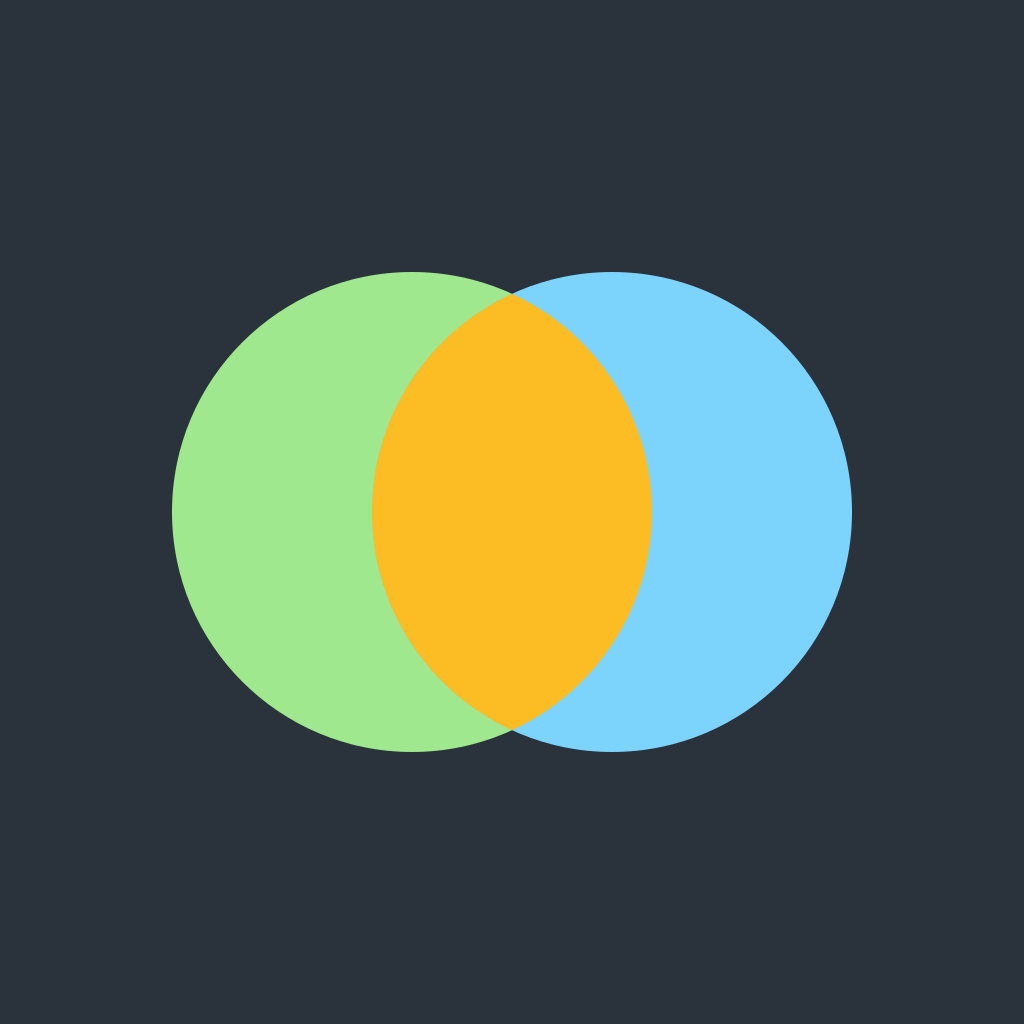
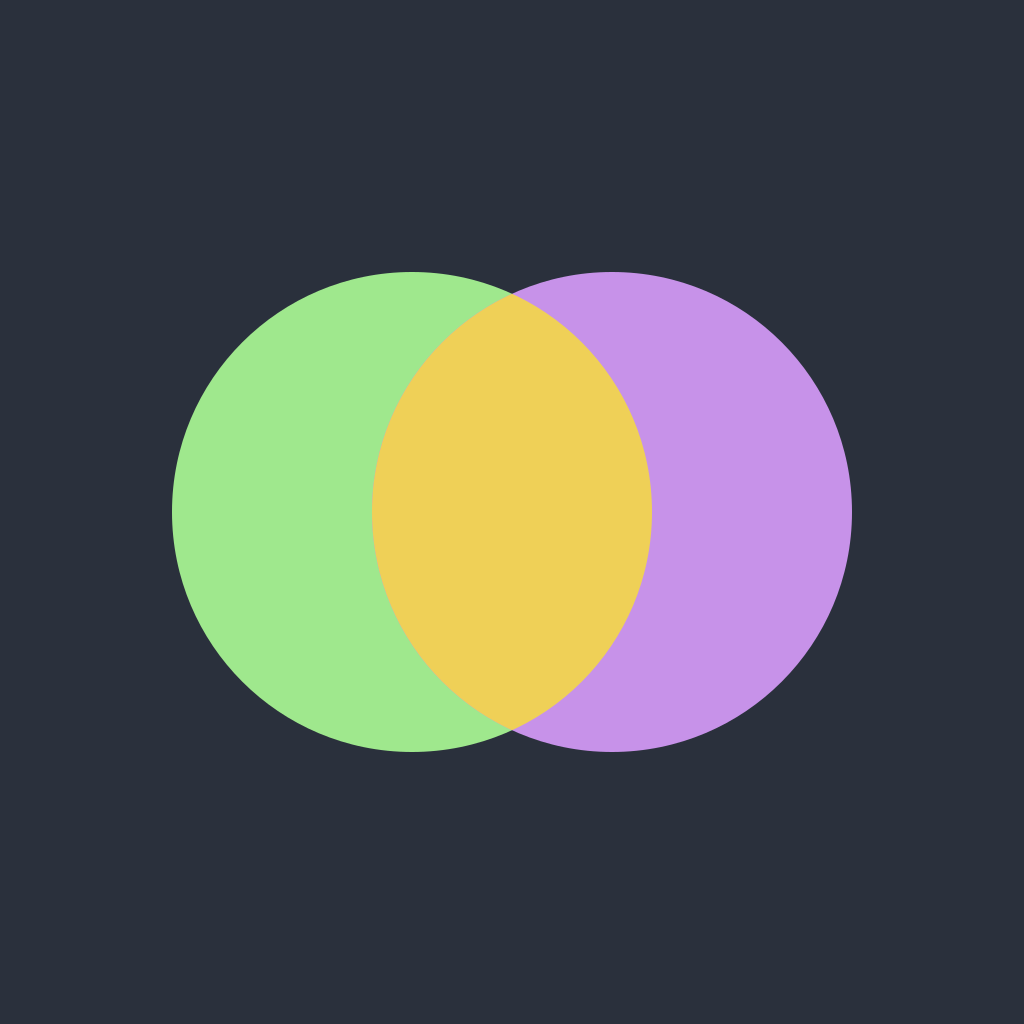
fix(theme): correct hardcoded hex values to match dim DaisyUI tokens
Previously the icon SVG and the three dim-base-100 references in
app.html / theme.ts / vite.config.ts used hex values I'd picked from
memory rather than from the actual DaisyUI source. Verified against
node_modules/daisyui/theme/dim.css (which defines tokens in OKLCH)
and converted to sRGB hex via the standard OKLCH → OKLab → linear
sRGB → gamma-companded sRGB pipeline:

  Token         Was        Actual      Issue
  base-100     #2a323c    #2A303C     off by 2 in the green channel
  primary      #9FE88D    #9FE88D     exact match (lucky)
  accent       #7CD4FD    #C792E9     WRONG COLOUR — I used a cyan
                                       that does not exist in dim;
                                       dim's accent is at hue 311
                                       (purple/magenta), not 200
                                       (cyan). This was a memory
                                       confusion with another theme.
  warning      #fbbd23    #EFD057     wrong yellow shade — too orange

Fixed in:
  - assets/icon-source.svg: all four colours updated. The right-party
    circle is now purple (matches dim accent's actual hue) instead
    of cyan, and the equilibrium-zone lens is dim's softer warning
    yellow. Each colour now carries its OKLCH source as a comment so
    future re-derivations can re-apply the conversion.
  - apps/web/src/app.html: meta theme-color initial value + bootstrap
    update target.
[…]

Changed region(s): [[0.3438, 0.25, 0.8438, 0.75]]

diff --git a/apps/web/src/lib/theme.ts b/apps/web/src/lib/theme.ts
@@ -145,10 +145,10 @@ export function applyTheme(dark: boolean, { skipPersist = false } = {}): void {
   // app theme, not OS preference. Dynamic update of the single
   // `<meta name="theme-color">` tag means a user on dark-OS who toggles
   // to light-app gets a light URL bar to match. Hex values match
-  // emerald base-100 (#ffffff) / dim base-100 (#2a323c) — these are
+  // emerald base-100 (#ffffff) / dim base-100 (#2A303C) — these are
   // stable theme constants.
   const meta = document.querySelector('meta[name="theme-color"]');
-  if (meta) meta.setAttribute('content', dark ? '#2a323c' : '#ffffff');
+  if (meta) meta.setAttribute('content', dark ? '#2A303C' : '#ffffff');
 
   // Notify subscribers (charts, modals, etc.) that the theme changed.
   // ApexCharts in BaseChart listens for this and switches its theme.mode.

diff --git a/apps/web/src/app.html b/apps/web/src/app.html
@@ -17,7 +17,7 @@
       script runs first and the querySelector returns null, leaving
       the OS browser chrome stuck at dim on first paint.
     -->
-    <meta name="theme-color" content="#2a323c" />
+    <meta name="theme-color" content="#2A303C" />
 
     <!--
       Early beforeinstallprompt capture. Browsers (Chrome/Edge/Brave)
@@ -91,7 +91,7 @@
         // chrome matches the active app theme on initial render. The meta
         // tag is declared above so it's already in the DOM when this runs.
         var meta = document.querySelector('meta[name="theme-color"]');
-        if (meta) meta.setAttribute('content', darkMode ? '#2a323c' : '#ffffff');
+        if (meta) meta.setAttribute('content', darkMode ? '#2A303C' : '#ffffff');
       })();
     </script>
 

diff --git a/apps/web/vite.config.ts b/apps/web/vite.config.ts
@@ -45,8 +45,8 @@ export default defineConfig({
         start_url: '/',
         display: 'standalone',
         prefer_related_applications: false,
-        theme_color: '#2a323c',
-        background_color: '#2a323c',
+        theme_color: '#2A303C',
+        background_color: '#2A303C',
         icons: [
           { src: '/icon-192.png', sizes: '192x192', type: 'image/png', purpose: 'any' },
           { src: '/icon-512.png', sizes: '512x512', type: 'image/png', purpose: 'any' },
